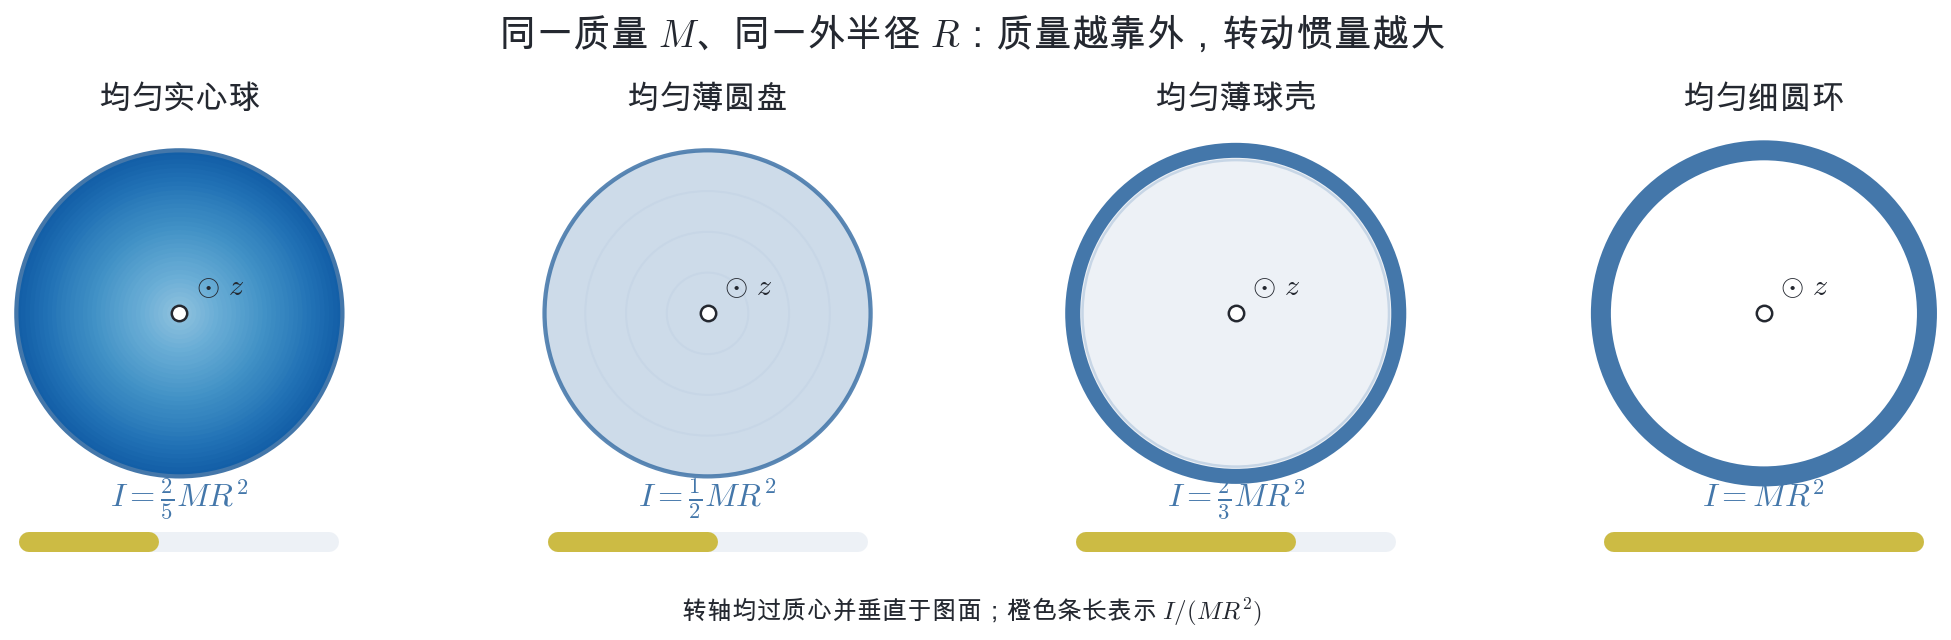
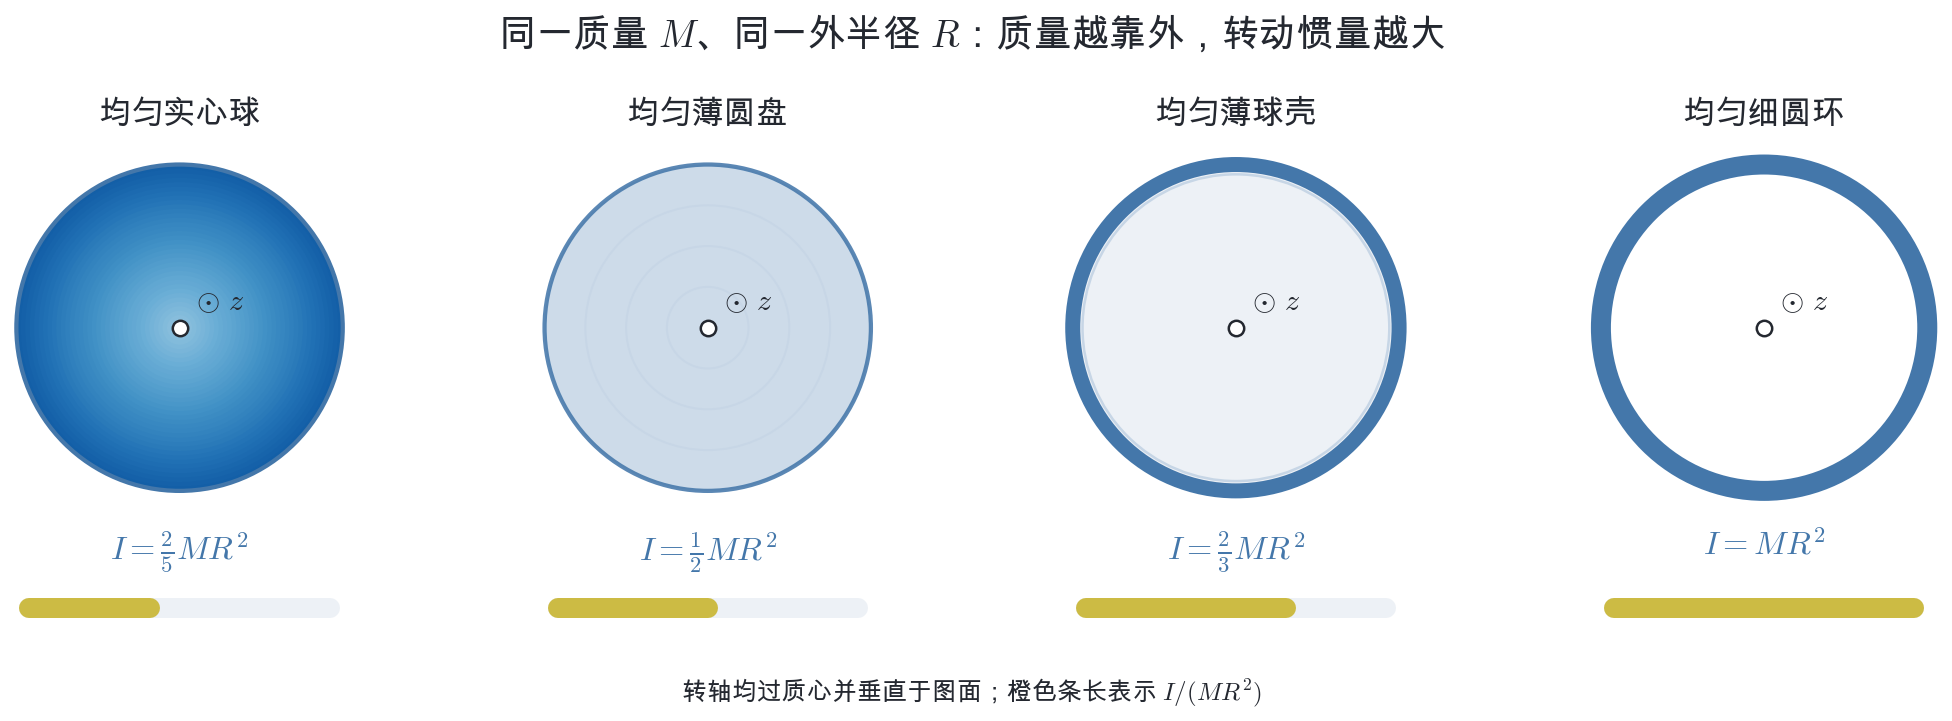
Sync rigid-body lecture and updated figure

diff --git a/teaching/notes/Mechanics/刚体运动.html b/teaching/notes/Mechanics/刚体运动.html
@@ -117,7 +117,8 @@
 <p>其中</p>
 <p>为了导出角动量方程，可以选取一个惯性系，使质心在所考虑的瞬间静止（每一时刻都可以这样选取一个惯性系）。下面会看到，即使质心有加速度，所得的方程对质心仍然成立。</p>
 <p>相对质心的角动量满足</p>
-<p>即</p>
+<p>上面我们利用在此参考系中 \boldsymbol V=0, \boldsymbol v_i = \dot {\boldsymbol \tau}_i = \dot {\boldsymbol r}_i 和 \dot {\boldsymbol r}_i \times {\boldsymbol p}_i = 0 .</p>
+<p>所以我们得到</p>
 <p>其中 \boldsymbol K 是相对质心的外力矩。对于满足强形式牛顿第三定律的中心内力，内力矩也成对抵消；在连续介质表述中，相应条件体现为应力张量的对称性。相对质心定义的内禀角动量在伽利略变换下不变。</p>
 <p>在惯性系中写 \boldsymbol\tau_i=\boldsymbol R+\boldsymbol r_i，\boldsymbol R 为质心位置，质心条件为 \sum_im_i\boldsymbol r_i=0。定义相对质心的角动量 \boldsymbol M=\sum_im_i\boldsymbol r_i\times\dot{\boldsymbol r}_i（用 \dot{\boldsymbol\tau}_i 代替 \dot{\boldsymbol r}_i 结果相同，因为多出的项正比于 \sum_im_i\boldsymbol r_i=0）。求导，并用 m_i\ddot{\boldsymbol r}_i=m_i\ddot{\boldsymbol\tau}_i-m_i\ddot{\boldsymbol R}=\boldsymbol f_i-m_i\ddot{\boldsymbol R}：</p>
 <p>在随质心平动的（非惯性）参照系中看，-m_i\ddot{\boldsymbol R} 是一个与质量成正比的惯性力，就像一个均匀的“重力场”，它对质心的力矩为零。若改取一个有加速度 \ddot{\boldsymbol A} 的一般参考点 A，同样的计算给出</p>
@@ -126,7 +127,7 @@
 <p>因此当 \boldsymbol F=0 时，力矩与参考原点的选择无关。若参考点取质心，即使合外力不为零，关于质心的转动方程仍可与质心平动方程分别处理。</p>
 <p>在无穷小转动 \delta\boldsymbol\varphi 下，</p>
 <p>故势能对无穷小取向变化的响应定义了广义力矩：</p>
-<p>这里需要一个重要的技术提醒：三个 \Omega_i 是角速度分量，却一般不是三个彼此独立的广义坐标对时间的导数，因为有限转动不交换。因此不能把 \Omega_i 直接当作普通的 \dot q_i 写入三条朴素的欧拉–拉格朗日方程。可以改用下一节的三个欧拉角作为广义坐标；也可以使用刚体系中的约化形式</p>
+<p>这里需要提醒下：三个 \Omega_i 是角速度分量，却一般不是三个彼此独立的广义坐标对时间的导数，因为有限转动不交换。因此不能把 \Omega_i 直接当作普通的 \dot q_i 写入三条朴素的欧拉–拉格朗日方程。可以改用下一节的三个欧拉角作为广义坐标；也可以使用刚体系中的约化形式</p>
 <p>其中 d&#x27;/dt 表示在随体坐标系中对分量求导。因为 \partial L/\partial\boldsymbol\Omega=\boldsymbol M，这正是后文欧拉方程的紧凑形式。</p>
 <h2 id="欧拉角">欧拉角</h2>
 <p>Eulerian Angles</p>
@@ -160,7 +161,7 @@
 <p>对一般随时间变化的矢量，惯性系导数与刚体系导数之间满足输运定理</p>
 <p>等式左边表示惯性观察者看到的变化率，第一项表示随刚体一起转动的观察者看到的分量变化率，第二项则来自基矢本身的转动。即使 \boldsymbol A 在随体系中的分量不变，惯性观察者仍会看到它以 \boldsymbol\Omega\times\boldsymbol A 的速率改变方向。</p>
 <p>于是</p>
-<p>由于 \boldsymbol P=\mu\boldsymbol V，平动方程的分量形式为</p>
+<p>由于 \boldsymbol P=\mu\boldsymbol V，平动方程的分量形式（主轴坐标系下）为</p>
 <p>在主轴坐标系中 M_i=I_i\Omega_i，角动量方程给出欧拉方程。</p>
 <p>因为随体主轴上的 I_i 是常数，随体系观察到的角动量变化率为</p>
 <p>输运项为</p>

diff --git a/materials/Mechanics/刚体运动.md b/materials/Mechanics/刚体运动.md
@@ -552,12 +552,13 @@ $$
 &=\sum_i\dot{\boldsymbol r}_i\times\boldsymbol p_i
 +\sum_i\boldsymbol r_i\times\dot{\boldsymbol p}_i\\
 &=\sum_i\boldsymbol r_i\times\boldsymbol f_i
-=\boldsymbol K,
+=\boldsymbol K.
 \end{aligned}
 \end{equation}
 $$
+上面我们利用在此参考系中 $\boldsymbol V=0, \boldsymbol v_i = \dot {\boldsymbol \tau}_i = \dot {\boldsymbol r}_i$ 和 $\dot {\boldsymbol r}_i \times {\boldsymbol p}_i = 0$ .
 
-即
+所以我们得到
 
 $$
 \begin{equation}
@@ -624,7 +625,7 @@ $$
 \end{equation}
 $$
 
-这里需要一个重要的技术提醒：三个 $\Omega_i$ 是角速度分量，却一般不是三个彼此独立的广义坐标对时间的导数，因为有限转动不交换。因此不能把 $\Omega_i$ 直接当作普通的 $\dot q_i$ 写入三条朴素的欧拉–拉格朗日方程。可以改用下一节的三个欧拉角作为广义坐标；也可以使用刚体系中的约化形式
+这里需要提醒下：三个 $\Omega_i$ 是角速度分量，却一般不是三个彼此独立的广义坐标对时间的导数，因为有限转动不交换。因此不能把 $\Omega_i$ 直接当作普通的 $\dot q_i$ 写入三条朴素的欧拉–拉格朗日方程。可以改用下一节的三个欧拉角作为广义坐标；也可以使用刚体系中的约化形式
 
 $$
 \begin{equation}
@@ -657,7 +658,7 @@ $$
 <img src="./figures/four/euler_angles.png" alt="欧拉角与节线的几何定义" style="width:85%;" />
 </div>
 
-**观察动画前先预测：**三次转动的终轴分别是哪一条？如果交换前两步，刚体是否仍会到达同一取向？
+**观察动画前先预测**：三次转动的终轴分别是哪一条？如果交换前两步，刚体是否仍会到达同一取向？
 
 <div style="text-align:center">
 <img src="./figures/four/euler_angles_sequence.gif" alt="欧拉角的三步内禀旋转动画：先绕固定 Z 轴，再绕节线，最后绕随体 x3 轴" style="width:50%;" />
@@ -858,7 +859,7 @@ $$
 \end{equation}
 $$
 
-由于 $\boldsymbol P=\mu\boldsymbol V$，平动方程的分量形式为
+由于 $\boldsymbol P=\mu\boldsymbol V$，平动方程的分量形式（主轴坐标系下）为
 
 $$
 \begin{equation}
@@ -1206,7 +1207,7 @@ $$
 
 上图左侧是按 $I_1:I_2:I_3=1:2:3$ 精确画出的角动量球面上的交线（实线为球面正面，虚线为背面）：绕 $\pm x_1$ 和 $\pm x_3$ 的都是小闭合圈，红色的分离轨道则是经过 $\pm x_2$ 的两个大圆。右侧以一本书为例：绕最长边和绕垂直于封面的轴抛起旋转都很平稳，绕次长边旋转则会翻转。
 
-**观察动画前先预测：**三个物体都没有受到外力矩，哪一个会翻转？翻转时保持不变的是刚体的哪一个量？
+**观察动画前先预测**：三个物体都没有受到外力矩，哪一个会翻转？翻转时保持不变的是刚体的哪一个量？
 
 <div style="text-align:center">
 <img src="./figures/four/intermediate_axis_comparison.gif" alt="同一非对称刚体分别绕最小、中间和最大主转动惯量轴自由旋转的比较动画" style="width:100%;" />
@@ -1453,7 +1454,7 @@ $$
 
 前面讨论的都是无外力矩的自由转动。现在考虑一个最经典的有外力矩问题：对称陀螺的尖端固定在支点 $O$，质心位于对称轴上、距支点 $l$，在均匀重力场中运动。这正是日常生活中玩具陀螺和陀螺仪的模型，相关的系统处理见 [1, 2]。
 
-**观察动画前先预测：**陀螺转得更快时，重力引起的进动会变快还是变慢？对称轴与竖直方向的夹角是否必须保持不变？
+**观察动画前先预测**：陀螺转得更快时，重力引起的进动会变快还是变慢？对称轴与竖直方向的夹角是否必须保持不变？
 
 <div style="text-align:center">
 <img src="./figures/four/lagrange_top_nutation.gif" alt="重力场中对称陀螺同时发生自转、进动和章动的动画" style="width:50%;" />
